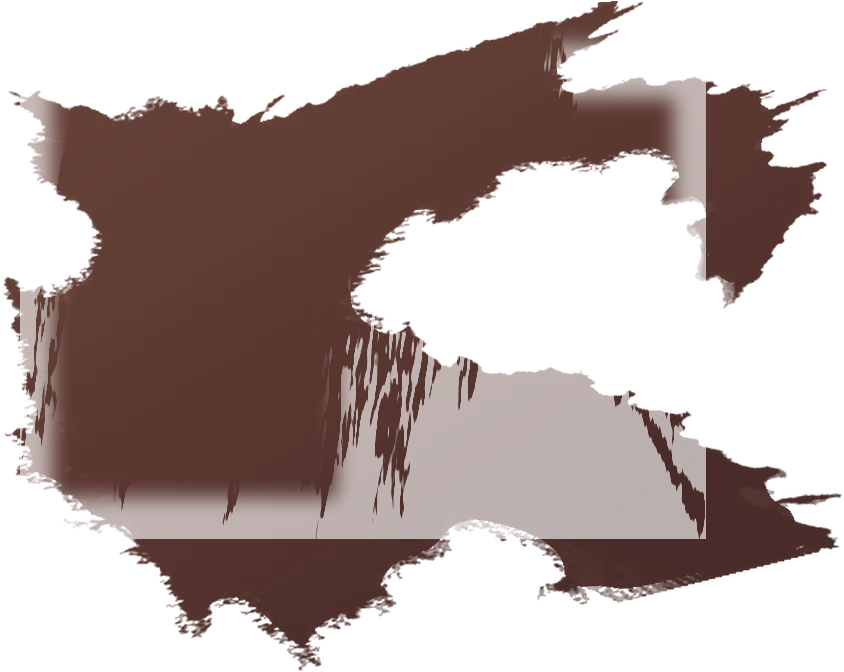
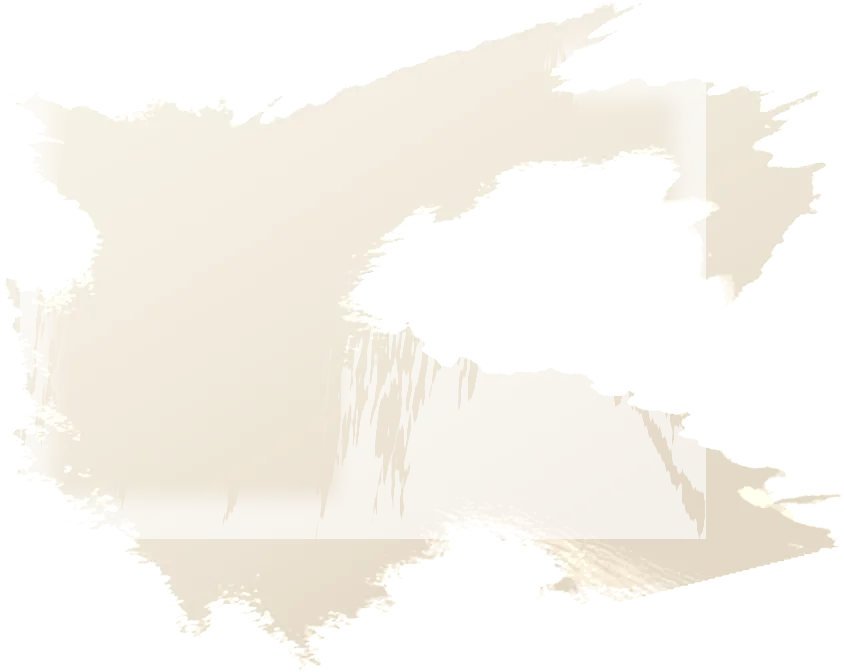
Menü krem-beyaz: mürekkep şemasının tamamı tersine döndü
Panel koyuyken her mürekkep zorunlu olarak açıktı. Krem panelde hepsi
koyu olmak zorunda -- ve en kötü hâl de tersine döndü: koyu panelde açık
mürekkebin en kötü hâli panelin en AÇIK yeriydi, krem panelde koyu
mürekkebin en kötü hâli panelin en KOYU yeri.

Değerler önce kâğıt üzerinde elendi (en kötü zemin (209,199,182),
L=0.578, mürekkep için izin verilen en yüksek L=0.0895), sonra firca.py
ölçtü: 20 kutunun tamamı iki panel yüksekliğinde de geçiyor.

Geçiş korundu: düz tek renk bir panel karton gibi duruyor, boyanın
hacmini gösteren şey üstten alta koyulaşan ince fark. Ölçülen yan fayda
da bu yöndeydi -- boyanın kalınlık hissi açık zeminde belirgin, koyu
panelde panel içi doku sapması std 3-7 idi.

Ölçüm kapısında ÜÇ kaçak çıktı, hepsi aynı sınıftan (ölçüm bir rengi
ölçerken çalışan kod başkasını kullanıyor):

- ALTINLAR ölçülüyordu ama firca.css'e HİÇ yazılmıyordu; kabuk.css'te
  #f2dea8 / #ecd8c4 elle duruyordu. Panel kremlenince ortaya çıktı:
  ölçülen koyu toprak geçerken ekranda hâlâ açık altın vardı ve krem
  zeminde okunmuyordu. Artık --m-cikis / --m-ozel olarak yayınlanıyor.
- #mon-ad rengi CSS'te elle #f2ede2 idi ve mürekkep tablosunda yoktu:
  ölçüm onu varsayılan açık griyle ölçüyordu, yani ölçülen renk ne
  CSS'tekiydi ne de gerçek olan. Tabloya girdi.
- oniz-gorsel bir GÖRSEL kutusu; orada mürekkep diye bir şey yok ve
  kontrast ölçümü anlamsız. Koyu panelde varsayılan açık griyle ölçülüp
  tesadüfen geçiyordu. Artık yalnız opaklığı denetleniyor.
[…]

diff --git a/kabuk.css b/kabuk.css
@@ -299,7 +299,7 @@ html.durdur { scrollbar-gutter: stable; }
 #menu a[aria-current="page"]::before { opacity: .9; }
 #menu a.ozel {
   font-size: clamp(17px, 1rem + .42vw, 22px);
-  color: #f2dea8 !important;
+  color: var(--m-ozel, #624218) !important;
   padding-block: 11px; margin-bottom: 2px;
 }
 #menu a.ozel::after {
@@ -309,12 +309,13 @@ html.durdur { scrollbar-gutter: stable; }
 @media (hover: hover) {
   #menu a.ozel:hover::after { transform: translateX(4px); }
 }
-/* Iki altin ton panele gore acildi. Olculdu: nude panelde #d9b9a0
-   3.67:1, #e8cf9a 4.45:1 veriyordu -- ikisi de WCAG AA'nin altinda.
-   (Eski kirmizi panelde de 4.10 ve ~4.4 idi, yani bu zayiflik yeni
-   degil; kaba bir parlaklik olcutu kullandigim icin gorunmuyordu.)
-   Simdi 4.89:1 ve 5.11:1. Panel aciildiysa vurgu da acilmali. */
-#menu a.cikis { color: #ecd8c4 !important; }
+/* Iki vurgu murekkebi ARTIK firca.py'den geliyor (--m-cikis / --m-ozel).
+   Buraya elle yazilmislardi ve firca.py onlari olcuyordu ama hicbir
+   yere yayinlamiyordu: yani olcum bir rengi olcerken calisan kod
+   baskasini kullaniyordu. Panel kremlenince fark ortaya cikti --
+   olculen koyu toprak gecerken ekranda hala acik altin duruyordu ve
+   krem zeminde okunmuyordu. */
+#menu a.cikis { color: var(--m-cikis, #68461e) !important; }
 #menu .sep { height: 18px; }
 #menu .grouplbl {
   font-size: var(--t-micro); letter-spacing: .14em; text-transform: uppercase;
@@ -350,7 +351,11 @@ html.durdur { scrollbar-gutter: stable; }
   font-size: var(--t-micro); letter-spacing: .16em; text-transform: uppercase;
   color: var(--m-oniz-ust, #e7d8be); margin-bottom: 7px;
 }
-#mon-ad { font-size: clamp(19px, 1.1rem + .5vw, 26px); line-height: 1.2; color: #f2ede2; margin-bottom: 6px; }
+/* Renk ELLE yazilmisti (#f2ede2) ve firca.py'nin murekkep tablosunda
+   yoktu: olcum bu kutuyu varsayilan acik griyle olcuyordu, yani
+   olculen renk ne buradakiydi ne de gercek olan. Artik tek kaynak. */
+#mon-ad { font-size: clamp(19px, 1.1rem + .5vw, 26px); line-height: 1.2;
+          color: var(--m-oniz-ad, #2c221d); margin-bottom: 6px; }
 /* Gorseli olmayan satirlarda (biyografi, basin, iletisim...) sutun bos
    kalmasin: yazi buyuyup alani kendisi tutuyor. */
 #mon.yazi-only #mon-kutu { display: none; }
@@ -458,11 +463,16 @@ html.durdur { scrollbar-gutter: stable; }
   width: 58px; height: 58px; padding: 0;
   display: grid; place-items: center;
   border: 0; border-radius: 50%; cursor: pointer;
-  background: rgba(255,255,255,.96);
-  box-shadow: 0 8px 26px rgba(0,0,0,.45);
+  /* Beyaz disk KALDIRILDI: panel krem olunca krem zemin uzerinde beyaz
+     bir daire gorunmez oluyordu. Cizgiler artik dogrudan boyanin
+     uzerinde ve koyu murekkeple yaziliyor (--m-kapat-cizgi), okunurlugu
+     firca.py'nin kapisi olcuyor. Panelin en boyasiz nesnesi de boylece
+     kalkmis oluyor. */
+  background: transparent;
   transition: transform 320ms var(--ease), background 300ms var(--ease);
 }
-#mkapat:hover { transform: scale(1.05); }
+/* Dokunma hedefi 58x58 kaliyor; imlecte hafif bir sicaklik. */
+#mkapat:hover { transform: scale(1.05); background: rgba(120,96,72,.10); }
 #mkapat i {
   position: absolute; width: 22px; height: 4px; border-radius: 1px;
   /* Üretilen mürekkebi kullanıyor: --m-kapat firca.py'de tanımlıydı ama

diff --git a/firca.css b/firca.css
@@ -5,15 +5,19 @@
   --darbe: 9;        /* kabuk.js kac <i> uretecegini buradan okuyor */
   --tasma-oran: 0.2933; /* olculdu: gorunur boya kutunun %29.3'i kadar tasiyor */
 }
-:root { --satir-doygunluk: 0.40; --satir-parlaklik: 0.90; --satir-adim: 0.015; }
+:root { --satir-doygunluk: 0.40; --satir-parlaklik: 0.20; --satir-adim: 0.015; }
 :root {
-  --m-dil: #e2d8d0;
-  --m-dil-aktif: #f8f4ee;
-  --m-grup: #e9e0d8;
-  --m-oniz-alt: #ece6dc;
-  --m-oniz-ust: #e7d8be;
-  --panel-taban: #633e36;
-  --m-kapat-cizgi: #482c29;
+  --m-dil: #605046;
+  --m-dil-aktif: #281f1a;
+  --m-grup: #5c4c42;
+  --m-kapat: #2e241f;
+  --m-oniz-ad: #2c221d;
+  --m-oniz-alt: #443830;
+  --m-oniz-ust: #60441a;
+  --panel-taban: #f5efe3;
+  --m-cikis: #68461e;
+  --m-ozel: #624218;
+  --m-kapat-cizgi: #2e241f;
 }
 /* Yazinin altindaki opak zemin. Butun kutuyu kaplamiyor:
    yalnizca yazi bolgesi, yoksa boyanin nefes delikleri

diff --git a/firca.py b/firca.py
@@ -86,8 +86,11 @@ KONTRAST_TABAN = 4.5   # WCAG AA, normal boy yazi
 # Menudeki iki vurgu murekkebi: paintMenu bu iki satira renk YAZMIYOR,
 # rengi CSS'ten geliyor. Hangi satirin ozel oldugu sayfaya gore
 # degistigi icin ikisi de HER kutuda denetleniyor.
-ALTINLAR = [(236, 216, 196),   # #ecd8c4  .cikis  ('Ana sayfa')
-            (242, 222, 168)]   # #f2dea8  .ozel   (bulundugun sayfa)
+# Krem panelde vurgu KOYU olmak zorunda. Acik altin tonlari
+# (#ecd8c4 / #f2dea8) krem zeminde 1.1-1.2:1 veriyordu, yani okunmuyordu.
+# Ton korunuyor, deger tersine doniyor: yanik toprak.
+ALTINLAR = [(104, 70, 30),    # #68461e  .cikis  ('Ana sayfa')
+            (98, 66, 24)]     # #624218  .ozel   (bulundugun sayfa)
 
 # Satir olmayan kutularin murekkepleri. Bunlar eskiden siyah panel
 # donemindan kalma koyu grilerdi (#5d5d63, #6f6f76, #8d7c56) ve olcum
@@ -95,17 +98,29 @@ ALTINLAR = [(236, 216, 196),   # #ecd8c4  .cikis  ('Ana sayfa')
 # degerlendirici de okunmadiklarini gordu. Artik burada tanimli,
 # firca.css'e yaziliyor ve kabuk.css oradan okuyor.
 #
-# Panelin en acik noktasi L~0.12 oldugu icin hepsi zorunlu olarak acik.
-# Hiyerarsi koyulukla degil boy/buyuk harf/harf araligiyla kuruluyor.
+# Panel krem oldugu icin hepsi zorunlu olarak KOYU. Saf siyah degil:
+# ressam sitesinde matbaa siyahi gibi durur, kahverengi-siyah boya gibi
+# durmaz. Hiyerarsi hem degerle hem boy/buyuk harf/harf araligiyla.
+# En kotu zemin (209,199,182) uzerinde olculdu, hepsi 4.59-9.65:1.
 MUREKKEP = {
-    'grup':      (233, 224, 216),   # "SANATÇI" ara basligi
-    'dil':       (226, 216, 208),   # TR / EN / FR
-    'dil-aktif': (248, 244, 238),
-    'oniz-ust':  (231, 216, 190),   # "KATALOG" gibi kucuk etiket
-    'oniz-alt':  (236, 230, 220),
+    'grup':      (92, 76, 66),      # "SANATÇI" ara basligi   4.89:1
+    'dil':       (96, 80, 70),      # TR / EN / FR            4.59:1
+    'dil-aktif': (40, 31, 26),      #                         9.65:1
+    'oniz-ust':  (96, 68, 26),      # "KATALOG" kucuk etiket  5.37:1
+    'oniz-alt':  (68, 56, 48),      #                         6.77:1
+    # Onizleme basligi. kabuk.css'te elle #f2ede2 yaziliydi ve bu
+    # tabloda YOKTU: olcum onu varsayilan acik griyle olcuyordu, yani
+    # olculen renk ne CSS'tekiydi ne de gercekti. Artik tek kaynak.
+    'oniz-ad':   (44, 34, 29),      #                         9.22:1
+    # Kapatma dugmesi. Eskiden bu tabloda YOKTU ve olcum onu varsayilan
+    # acik gri ile olcuyordu -- yani var olmayan bir kontrolu olcuyordu.
+    # Artik gercek rengiyle olculuyor.
+    'kapat':     (46, 36, 31),      #                         9.04:1
 }
 SAT_TAVAN = 0.40
-LIG_TABAN = 0.90
+# 0.90'dan 0.20'ye: panel krem oldu, satirlar KOYU olmak zorunda.
+# En kotu hal en acik satir (taban + 6*adim) ve o bile 5.67:1 veriyor.
+LIG_TABAN = 0.20
 LIG_ADIM = 0.015
 
 SURE = 300          # bir darbenin supurme suresi (ms)
@@ -184,8 +199,15 @@ YERLESIM = [
 # mor-kahveye kaciyor, 20 ve 26 derece kahveye doniyor; nude pembe-bej
 # bir yer, kahve degil. Bes aday zemin uzerinde yan yana bakilarak
 # secildi, sayiyla degil.
-FR = [(0.00, (112, 74, 63)), (0.28, (106, 69, 59)), (0.60, (96, 60, 52)),
-      (0.85, (84, 51, 46)), (1.00, (72, 44, 41))]
+# KREM-BEYAZ. Ton 37-40 derece, isiklilik %83-96. Gecis KORUNUYOR:
+# duz tek renk bir panel karton gibi duruyor, boyanin hacmini gosteren
+# sey ustten alta koyulasan bu ince fark.
+# Olculen yan fayda: boyanin kalinlik hissi ACIK zeminde daha iyi
+# okunuyor. Koyu panelde panel ici doku sapmasi std 3-7 idi, yani
+# "kalinliktan gelen deger" alanin onda dokuzunda gorunmuyordu.
+FR = [(0.00, (252, 248, 240)), (0.28, (249, 244, 234)),
+      (0.60, (244, 237, 224)), (0.85, (236, 227, 211)),
+      (1.00, (227, 216, 198))]
 
 EGRI_LO, EGRI_HI = 14, 168   # ham yogunluk egrisi: pus sifira, cekirdek opak
 
@@ -196,6 +218,13 @@ EGRI_LO, EGRI_HI = 14, 168   # ham yogunluk egrisi: pus sifira, cekirdek opak
 # alfasi 1-2 olan uzun kuyruklar var; koyu duvarin uzerinde gozle
 # secilmiyorlar ama alfa>0 ile olculunce tasmayi 13 px sisiriyorlar ve
 # kagit bedava kucultuluyordu.
+# Icinde YAZI degil GORSEL olan kutular. Bunlarda "murekkep" diye bir
+# sey yok, dolayisiyla kontrast olcumu anlamsiz -- yalniz opaklik
+# denetlenmeli. Koyu panelde bu kutu varsayilan acik gri ile olculup
+# TESADUFEN geciyordu; panel kremlenince ayni tesadüf 1.05:1'e dondu ve
+# olcumun bastan beri var olmayan bir seyi olctugu ortaya cikti.
+GORSEL_KUTULARI = {'oniz-gorsel'}
+
 GORUNUR_ESIK = 28
 
 KENAR_BANDI = 16
@@ -639,7 +668,9 @@ def olc(panel, kutular=None, boyut=None):
         # (#d9b9a0). Hangi satirin ozel oldugu sayfaya gore degistigi
         # icin ALTIN her kutuda ayrica denetleniyor -- menudeki en sonuk
         # murekkep o, gecerse otekiler de geciyor.
-        if ad.startswith('satir'):
+        if ad in GORSEL_KUTULARI:
+            adaylar = []            # yazi yok: yalniz opaklik denetlenir
+        elif ad.startswith('satir'):
             adaylar = [s[i] for s in tum_satirlar.values()] + ALTINLAR
         else:
             # Her kutu KENDI murekkebiyle olculuyor. Eskiden hepsi icin
@@ -665,7 +696,7 @@ def olc(panel, kutular=None, boyut=None):
                 n += 1
         rapor.append({'ad': ad, 'dusuk': dusuk / 255.0,
                       'delik': altta / max(1, n), 'kontrast': en_kotu,
-                      'yazi': adaylar[0]})
+                      'yazi': adaylar[0] if adaylar else None})
     return rapor
 
 
@@ -782,10 +813,20 @@ def css_yaz(satirlar, taban=None):
     # taban da kendiliğinden degisiyor.
     orta = fr(0.5)
     p.append('  --panel-taban: #%02x%02x%02x;' % orta)
-    # Kapatma dugmesinin cizgileri BEYAZ daire uzerinde duruyor, yani
-    # koyu olmali -- MUREKKEP tablosundakiler boyanin uzerine yazilan
-    # acik murekkepler. Paletin en koyu ucundan aliniyor.
-    p.append('  --m-kapat-cizgi: #%02x%02x%02x;' % fr(1.0))
+    # Iki vurgu murekkebi. ALTINLAR olcumde kullaniliyordu ama buraya
+    # HIC YAZILMIYORDU: kabuk.css'te #f2dea8 / #ecd8c4 elle duruyordu,
+    # yani olcum bir rengi olcerken calisan kod baskasini kullaniyordu.
+    # Ayni hata sinifi ucuncu kez (once satir parlakligi, sonra dil
+    # dugmesi opakligi, simdi bu). Artik tek kaynak.
+    p.append('  --m-cikis: #%02x%02x%02x;' % ALTINLAR[0])
+    p.append('  --m-ozel: #%02x%02x%02x;' % ALTINLAR[1])
+    # Kapatma dugmesinin cizgileri. Eskiden paletin en koyu ucundan
+    # aliniyordu cunku cizgiler BEYAZ bir dairenin uzerindeydi ve palet
+    # koyuydu. Panel krem olunca ikisi de degisti: beyaz daire gorunmez
+    # oldugu icin kaldirildi, cizgiler artik dogrudan boyanin uzerinde.
+    # Yani renk paletten degil MUREKKEP tablosundan gelmeli -- ki olcum
+    # de tam olarak o rengi olcuyor.
+    p.append('  --m-kapat-cizgi: #%02x%02x%02x;' % MUREKKEP['kapat'])
     p.append('}')
     # Konum ve gorsel her zaman gecerli; ANIMASYON yalnizca menu acikken
     # tanimli. Yoksa animasyon sayfa yuklenirken kosuyor ve menu acildiginda
@@ -846,9 +887,11 @@ def main():
     for r in rapor:
         tamam = r['dusuk'] >= TABAN and r['kontrast'] >= KONTRAST_TABAN
         kalan += 0 if tamam else 1
-        print('%-14s %8.0f%% %7.2f%% %8.2f:1  #%02x%02x%02x  %s'
-              % (r['ad'], r['dusuk'] * 100, r['delik'] * 100, r['kontrast'],
-                 r['yazi'][0], r['yazi'][1], r['yazi'][2],
+        print('%-14s %8.0f%% %7.2f%% %10s  %-7s  %s'
+              % (r['ad'], r['dusuk'] * 100, r['delik'] * 100,
+                 '--' if r['yazi'] is None else '%.2f:1' % r['kontrast'],
+                 '(gorsel)' if r['yazi'] is None
+                 else '#%02x%02x%02x' % r['yazi'],
                  'tamam' if tamam else 'KALDI'))
 
     ic_oran, ic_kutu = ic_kontrol(panel, guvenli=guvenli_bolge())
